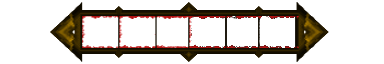
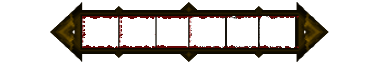
Finished bot bar - health and items

diff --git a/src/com/youtube/pseudo3d/gui/Gui.java b/src/com/youtube/pseudo3d/gui/Gui.java
@@ -22,7 +22,6 @@ public class Gui {
 	}
 	
 	public void update(double elapsed) {
-		
 	}
 	
 	public void render(Graphics g) {
@@ -34,6 +33,19 @@ public class Gui {
 	}
 	
 	private void renderSlots(Graphics g, int slotWidth, int slotHeight) {
+		if(Items.unlocked.get(Items.Holding.TORCH))
+			g.drawImage(TextureHolder.get(ID.GUI_LATTERN_ICON), (int) (gameLogic.getMain().getWidth() / 3) + slotWidth, (int)(gameLogic.getMain().getHeight() - 1.2*slotHeight), slotWidth, slotHeight, null);
+		
+		if(Items.unlocked.get(Items.Holding.SWORD))
+			g.drawImage(TextureHolder.get(ID.GUI_SWORD_ICON), (int) (gameLogic.getMain().getWidth() / 3) + 2*slotWidth, (int)(gameLogic.getMain().getHeight() - 1.2*slotHeight), slotWidth, slotHeight, null);
+		
+		if(Items.unlocked.get(Items.Holding.AXE))
+			g.drawImage(TextureHolder.get(ID.GUI_AXE_ICON), (int) (gameLogic.getMain().getWidth() / 3) + 3*slotWidth, (int)(gameLogic.getMain().getHeight() - 1.2*slotHeight), slotWidth, slotHeight, null);
+		
+		if(Items.unlocked.get(Items.Holding.WAND))
+			g.drawImage(TextureHolder.get(ID.GUI_WAND_ICON), (int) (gameLogic.getMain().getWidth() / 3) + 4*slotWidth, (int)(gameLogic.getMain().getHeight() - 1.2*slotHeight), slotWidth, slotHeight, null);
+		
+		
 		int slotIterator = 0;
 		for(int i=(int) (gameLogic.getMain().getWidth() / 3); i<gameLogic.getMain().getWidth() / 3 + 6 * slotWidth; i+=slotWidth) {
 			if(Items.holding != Holding.values()[slotIterator])
@@ -43,10 +55,11 @@ public class Gui {
 
 			slotIterator++;
 		}
+		
 	}
 	
 	private void renderHealth(Graphics g, int slotWidth, int slotHeight) {
-		g.setColor(Color.RED);
+		g.setColor(new Color(111, 2, 2, 200));
 		g.fillRect((int) (gameLogic.getMain().getWidth() / 2.678), (int)(gameLogic.getMain().getHeight() - slotHeight) - slotHeight, (int)(Player.HEALTH * slotWidth * slotScale / 1.7), (int)(slotHeight * .6));
 		g.drawImage(TextureHolder.get(ID.GUI_HEALTH_BAR), (int) (gameLogic.getMain().getWidth() / 3.58), (int)(gameLogic.getMain().getHeight() - 1.2*slotHeight) - slotHeight, slotWidth * 8, slotHeight, null);
 	}

diff --git a/src/com/youtube/pseudo3d/engine/GameLogic.java b/src/com/youtube/pseudo3d/engine/GameLogic.java
@@ -69,6 +69,10 @@ public class GameLogic {
 		TextureHolder.load(ID.GUI_EMPTY_SLOT,	"/gui/empty-slot.png");
 		TextureHolder.load(ID.GUI_SELECTED_SLOT,"/gui/selected-slot.png");
 		TextureHolder.load(ID.GUI_HEALTH_BAR,   "/gui/health-bar.png");
+		TextureHolder.load(ID.GUI_LATTERN_ICON, "/gui/lattern-icon.png");
+		TextureHolder.load(ID.GUI_SWORD_ICON, 	"/gui/sword-icon.png");
+		TextureHolder.load(ID.GUI_AXE_ICON, 	"/gui/axe-icon.png");
+		TextureHolder.load(ID.GUI_WAND_ICON, 	"/gui/wand-icon.png");
 	}
 	
 	private void initGameObjects() {
@@ -126,6 +130,7 @@ public class GameLogic {
 		screen = new BufferedImage(Constants.RESOLUTION_WIDTH, Constants.RESOLUTION_HEIGHT, BufferedImage.TYPE_INT_RGB);
 		rayprojector.projectRays();
 		player.update(elapsed);
+		gui.update(elapsed);
 	}
 	
 	public void render(Graphics g) {

diff --git a/src/com/youtube/pseudo3d/resource/TextureHolder.java b/src/com/youtube/pseudo3d/resource/TextureHolder.java
@@ -29,7 +29,11 @@ public class TextureHolder {
 		
 		GUI_EMPTY_SLOT,
 		GUI_SELECTED_SLOT,
-		GUI_HEALTH_BAR
+		GUI_HEALTH_BAR,
+		GUI_LATTERN_ICON,
+		GUI_SWORD_ICON,
+		GUI_AXE_ICON,
+		GUI_WAND_ICON
 	}
 
 	private static HashMap<ID, BufferedImage> textureMap = new HashMap<ID, BufferedImage>();

diff --git a/src/com/youtube/pseudo3d/engine/Player.java b/src/com/youtube/pseudo3d/engine/Player.java
@@ -11,7 +11,7 @@ import com.youtube.pseudo3d.util.Vector2d;
 
 public class Player {
 
-	public static int HEALTH = 100;
+	public static int HEALTH = 80;
 	
 	private BufferedImage currentTexture;
 	

diff --git a/src/com/youtube/pseudo3d/engine/Items.java b/src/com/youtube/pseudo3d/engine/Items.java
@@ -9,7 +9,7 @@ public class Items {
 		SWORD,
 		AXE,
 		WAND,
-		EXTRA_0,
+		EXTRA,
 	}
 	
 	public static HashMap<Holding, Boolean> unlocked = new HashMap<Holding, Boolean>();
